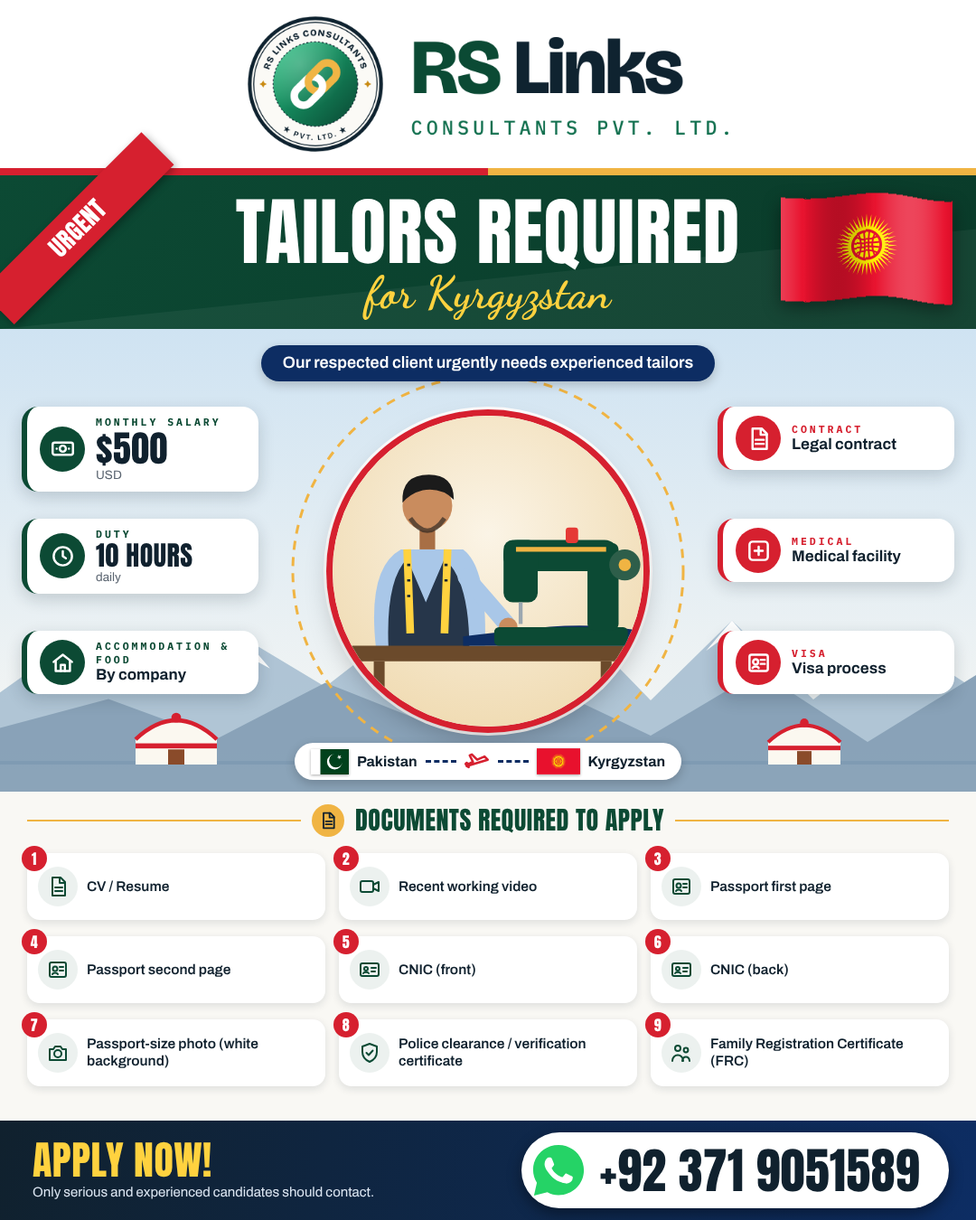
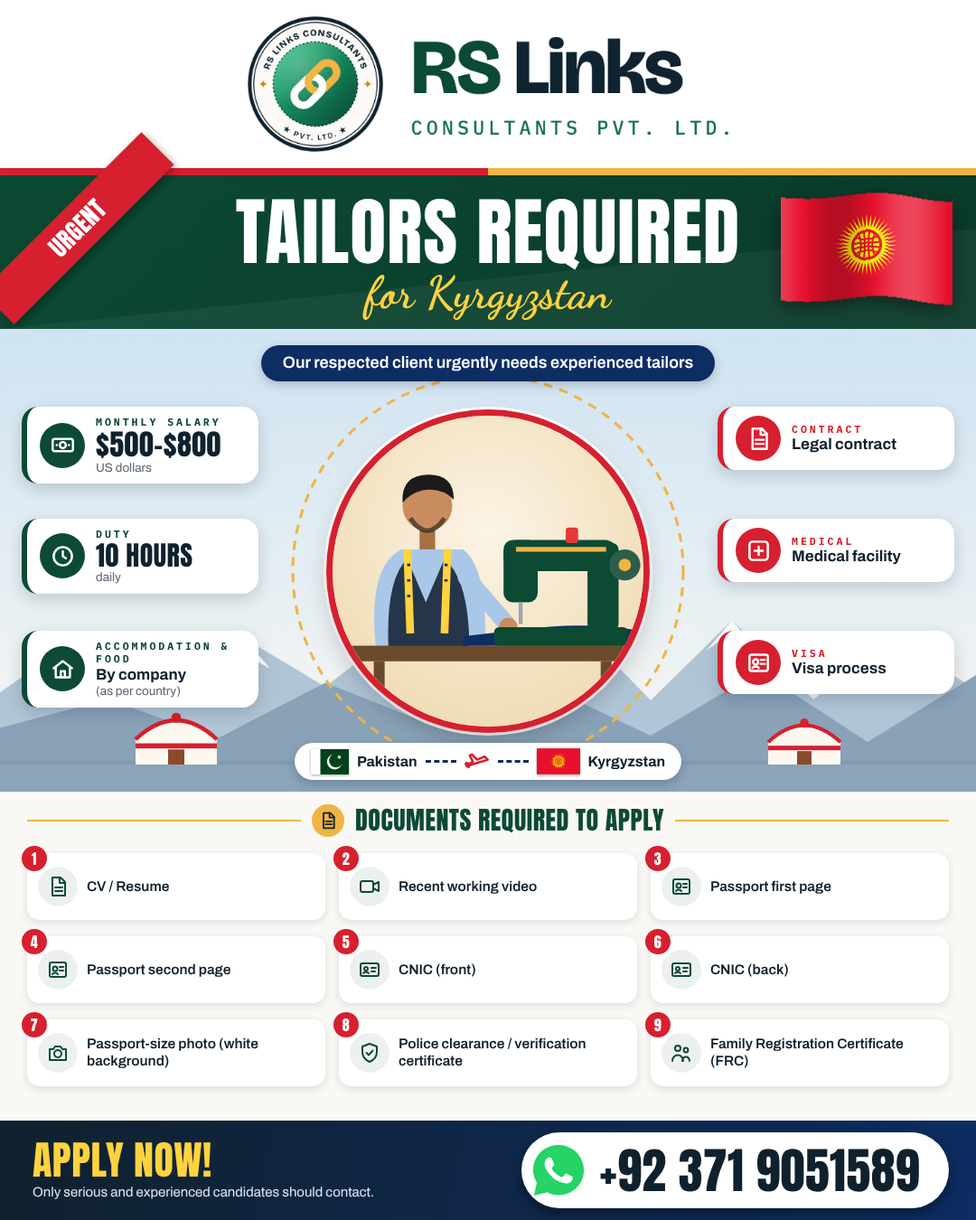
Add Uzbekistan factory workers ad; Kyrgyz tailors back to source salary
New scene-led style with an illustrated factory floor. Kyrgyzstan tailors
ad restored to the source ad: $500–$800 monthly, accommodation & food by
company (as per country).

Claude-Session: https://claude.ai/code/session_01YJ5ofgU8QCiWTsYR9pvXG4

Changed region(s): [[0.0306, 0.3422, 0.275, 0.4044], [0.0, 0.5289, 0.275, 0.5911]]

diff --git a/src/style_scene.py b/src/style_scene.py
@@ -1,0 +1,144 @@
+"""Style: Scene-led.
+
+A full-width illustrated workplace scene (big windows onto the destination's
+landmarks, workers doing the job) with the logo plate and headline set in
+the sky; below it a wave-edged info section: job tiles, a big salary card +
+2x2 detail tiles, a facilities row, a highlighted note bar, and a red
+WhatsApp CTA bar. Mirrors automatically for Urdu.
+
+Usage: python3 src/style_scene.py <data module in src/data/>
+"""
+import importlib
+import sys
+
+from common import C, WHATSAPP, flag, icon, logo_img, page, render, whatsapp_icon, overflow_report
+from illustrations import factory_scene
+from style_corporate_grid import T
+
+
+def css(ur):
+    base = 'Nastaliq' if ur else 'Archivo'
+    return f"""
+.canvas{{font-family:'{base}',sans-serif;background:{C['offwhite']};}}
+.ur-on .t{{font-family:'Nastaliq',serif;}}
+.num{{font-family:'Anton','Nastaliq',sans-serif;direction:ltr;unicode-bidi:isolate;display:inline-block;letter-spacing:.5px;}}
+.ic{{border-radius:50%;display:flex;align-items:center;justify-content:center;flex:none;}}
+.mir{{transform:scaleX(-1);}}
+.sec{{display:flex;align-items:center;gap:10px;}}
+.sec .bar{{width:6px;height:24px;border-radius:3px;}}
+"""
+
+
+def section_title(txt, color, f):
+    return (f"<div class='sec' style='margin-bottom:{6 if f.ur else 12}px'><div class='bar' style='background:{color}'></div>"
+            f"{f.label(txt, 15, 19, color, 'font-weight:700')}</div>")
+
+
+def build(d, lang):
+    ur = lang == "ur"
+    f = T(ur)
+    t = d[lang]
+    g = d["layout"]
+    sh = g["scene_h"]
+    # ---------------- scene + headline in the sky
+    scene = f"<svg class='abs' style='left:0;top:0' width='1080' height='{sh}'>{factory_scene(1080, sh, ur)}</svg>"
+    logo = (f"<div class='abs' style='top:18px;left:{(1080-560)//2}px;width:560px;height:132px;background:#fff;border-radius:22px;"
+            f"box-shadow:0 8px 22px rgba(16,33,46,.22);display:flex;align-items:center;justify-content:center'>"
+            f"{logo_img('logo-horizontal-light', 'width:510px;height:116px')}</div>")
+    flag_el = f"<div class='abs' style='top:22px;inset-inline-start:24px;filter:drop-shadow(0 6px 10px #0005)'>{flag('uzbekistan', 170, True, 'sf' + lang)}</div>"
+    posts = (f"<div class='abs' style='top:20px;inset-inline-end:26px;width:150px;height:150px;border-radius:50%;background:{C['red']};"
+             f"box-shadow:0 6px 16px {C['red']}66;border:5px solid #fff;display:flex;flex-direction:column;align-items:center;justify-content:center;color:#fff'>"
+             f"{f.label(t['posts_label'], 12, 16, '#FFE7E7', 'text-align:center')}"
+             f"<div class='num' style='font-size:58px;line-height:1'>{t['posts_n']}</div>"
+             f"{f.label(t['posts_word'], 13, 16, '#fff', 'text-align:center')}</div>")
+    if ur:
+        head = (f"<div style='display:inline-block;background:{C['red']};color:#fff;border-radius:10px;padding:0 16px 4px'>{f.txt(t['kicker'], 0, 26, '#fff', 'font-weight:700', 1.6)}</div>"
+                + f.txt(t['country'], 0, 56, C['navy'], 'font-weight:700;margin-top:52px', 1.4)
+                + f.txt(t['subhead'], 0, 26, C['green'], 'font-weight:700', 1.6))
+    else:
+        head = (f"<div style='display:inline-block;background:{C['red']};color:#fff;border-radius:10px;padding:6px 16px'>"
+                f"<span class='mono' style='font-size:18px'>{t['kicker']}</span></div>"
+                f"<div class='anton' style='font-size:104px;line-height:1;color:{C['navy']};margin-top:8px;letter-spacing:2px'>{t['country']}</div>"
+                f"<div class='anton' style='font-size:40px;line-height:1.05;color:{C['green']}'>{t['subhead']}</div>")
+    headline = f"<div class='abs' style='top:{g['head_top_ur' if ur else 'head_top']}px;left:0;right:0;text-align:center'>{head}</div>"
+    cities = (f"<div class='abs' style='top:{g['cities_top']}px;left:0;right:0;display:flex;justify-content:center'>"
+              f"<div style='display:inline-flex;align-items:center;gap:10px;background:#fff;border-radius:999px;padding:{'0 20px' if ur else '7px 20px'};box-shadow:0 4px 12px #0002'>"
+              f"{icon('pin', 22, C['red'], 2.6)}{f.txt(t['cities'], 18, 20, C['navy2'], 'font-weight:700', 1.6 if ur else 1)}"
+              f"<span style='color:#B6C2CE'>|</span><div style='line-height:0'>{flag('pakistan', 36, False)}</div>"
+              f"<span class='{'mir' if ur else ''}' style='display:inline-flex'>{icon('plane', 24, C['red'], 2.2)}</span>"
+              f"<div style='line-height:0'>{flag('uzbekistan', 46, False)}</div></div></div>")
+    # ---------------- info section with wave edge
+    iy = sh - 40
+    wave = (f"<svg class='abs' style='left:0;top:{iy - 30}px' width='1080' height='70'>"
+            f"<path d='M0 40 Q270 0 540 30 T1080 20 V70 H0Z' fill='{C['green']}'/>"
+            f"<path d='M0 52 Q270 14 540 42 T1080 32 V70 H0Z' fill='{C['offwhite']}'/></svg>")
+    info_bg = f"<div class='abs' style='top:{iy + 30}px;left:0;width:1080px;height:{g['cta_top'] - iy - 30}px;background:{C['offwhite']}'></div>"
+    # jobs row
+    jobs = "".join(
+        f"<div style='flex:1;background:#fff;border-radius:16px;box-shadow:0 3px 10px rgba(16,33,46,.1);display:flex;align-items:center;gap:10px;padding:{'4px 12px' if ur else '12px 12px'};min-width:0'>"
+        f"<div class='ic' style='width:46px;height:46px;background:{C['green']}'>{icon(ic, 25)}</div>"
+        f"{f.txt(txt, 17, 19, C['navy2'], 'font-weight:700;min-width:0', 1.6 if ur else 1.15)}</div>"
+        for ic, txt in t["jobs"])
+    jy = iy + 46
+    jobs_block = (f"<div class='abs' style='top:{jy}px;left:30px;right:30px'>{section_title(t['jobs_title'], C['green'], f)}"
+                  f"<div style='display:flex;gap:12px'>{jobs}</div>"
+                  f"{f.txt(t['jobs_note'], 15, 16, '#5A6470', 'margin-top:' + ('2px' if ur else '8px'), 1.6 if ur else 1.2)}</div>")
+    # salary + detail tiles
+    sy = g["details_top"]
+    sal = t["salary"]
+    tiles = "".join(
+        f"<div style='width:calc(50% - 6px);background:#fff;border-radius:14px;box-shadow:0 3px 10px rgba(16,33,46,.1);display:flex;align-items:center;gap:12px;padding:{'2px 14px' if ur else '10px 14px'}'>"
+        f"<div class='ic' style='width:42px;height:42px;background:{C['navy']}14'>{icon(ic, 22, C['navy'], 2.2)}</div>"
+        f"<div style='min-width:0'>{f.label(lab, 11.5, 15, '#5A6470')}{f.txt(val, 22, 20, C['navy2'], 'font-weight:800', 1.6 if ur else 1.15)}</div></div>"
+        for ic, lab, val in t["details"])
+    details = f"""<div class='abs' style='top:{sy}px;left:30px;right:30px'>{section_title(t['details_title'], C['navy'], f)}
+<div style='display:flex;gap:14px;height:{g['details_h']}px'>
+ <div style='width:300px;flex:none;border-radius:18px;background:linear-gradient(140deg,{C['emerald2']},{C['green']});color:#fff;display:flex;flex-direction:column;justify-content:center;align-items:center;
+  box-shadow:0 6px 16px {C['green']}55;padding:10px'>
+  <div style='display:flex;align-items:center;gap:8px'><div class='ic' style='width:34px;height:34px;background:#ffffff26'>{icon('money', 20)}</div>
+  {f.label(sal['label'], 13, 17, C['gold2'])}</div>
+  <div class='num' style='font-size:68px;line-height:1'>{sal['value']}</div>
+  {f.txt(sal['sub'], 16, 18, '#E6F4EC', '', 1.5 if ur else 1.2)}</div>
+ <div style='flex:1;display:flex;flex-wrap:wrap;gap:12px;align-content:space-between'>{tiles}</div></div></div>"""
+    # facilities row
+    fy = g["fac_top"]
+    facs = "".join(
+        f"<div style='flex:{fl};display:flex;align-items:center;gap:10px;min-width:0'>"
+        f"<div class='ic' style='width:44px;height:44px;background:{C['gold']}'>{icon(ic, 24, C['navy2'])}</div>"
+        f"{f.txt(txt, 16, 17, C['navy2'], 'font-weight:700;min-width:0', 1.6 if ur else 1.2)}</div>"
+        for ic, txt, fl in t["facilities"])
+    fac = (f"<div class='abs' style='top:{fy}px;left:30px;right:30px'>{section_title(t['fac_title'], '#B7791F', f)}"
+           f"<div style='display:flex;gap:16px;background:#fff;border-radius:16px;padding:{'4px 18px' if ur else '14px 18px'};box-shadow:0 3px 10px rgba(16,33,46,.1)'>{facs}</div></div>")
+    # note bar
+    ny = g["note_top"]
+    note = (f"<div class='abs' style='top:{ny}px;left:30px;right:30px;display:flex;gap:14px;align-items:stretch'>"
+            f"<div style='display:flex;align-items:center;gap:10px;background:{C['gold2']};border-radius:14px;padding:{'6px 18px 8px' if ur else '10px 18px'};box-shadow:0 3px 10px #0002'>"
+            f"<span class='{'mir' if ur else ''}' style='display:inline-flex'>{icon('plane', 26, C['navy2'], 2.4)}</span>"
+            f"{f.txt(t['note'], 19, 21, C['navy2'], 'font-weight:800;white-space:nowrap', 1.8 if ur else 1.1)}</div>"
+            f"<div style='flex:1;display:flex;align-items:center;justify-content:center;border:2px dashed {C['green']};border-radius:14px;padding:{'6px 10px 8px' if ur else '6px 10px'}'>"
+            f"{f.txt(t['tagline'], 22, 21, C['green'], 'font-weight:700;text-align:center', 1.8 if ur else 1.1, 't' if ur else 'script')}</div></div>")
+    # CTA
+    ct = g["cta_top"]
+    cta = f"""<div class='abs' style='top:{ct}px;left:0;width:1080px;height:{1350-ct}px;background:linear-gradient(100deg,#B71C1C,{C['red']})'></div>
+<div class='abs' style='top:{ct}px;height:{1350-ct}px;inset-inline-start:36px;width:440px;display:flex;flex-direction:column;justify-content:center'>
+ {f.head(t['apply'], 44, 34, '#fff')}
+ {f.txt(t['apply_sub'], 15, 16.5, '#FFE3E3', 'margin-top:' + ('8px' if ur else '4px'), 1.5 if ur else 1.3)}</div>
+<div class='abs' style='top:{ct+13}px;inset-inline-end:30px;height:{1350-ct-26}px;background:#fff;border-radius:999px;display:flex;align-items:center;gap:14px;
+ padding-inline:10px 32px;box-shadow:0 6px 16px #0005'>{whatsapp_icon(62)}
+ <div class='num' style='font-size:54px;color:{C['navy2']};line-height:1.15'>{WHATSAPP}</div></div>"""
+    body = scene + logo + flag_el + posts + headline + cities + info_bg + wave + jobs_block + details + fac + note + cta
+    return page(f"<div class='{'ur-on' if ur else ''}'>{body}</div>", css(ur), rtl=ur)
+
+
+def main(mod_name):
+    d = importlib.import_module(f"data.{mod_name}").DATA
+    for lang, suffix in (("en", "English"), ("ur", "Urdu")):
+        html = build(d, lang)
+        bad = overflow_report(html)
+        if bad:
+            print(f"[{lang}] overflowing boxes: {bad}")
+        print(render(html, f"{d['stem']}-{suffix}.png"))
+
+
+if __name__ == "__main__":
+    main(sys.argv[1])

diff --git a/src/illustrations.py b/src/illustrations.py
@@ -240,3 +240,64 @@ def girih_pattern(pid, color, opacity=0.14, size=80):
             f'<g fill="none" stroke="{color}" stroke-width="1.6" opacity="{opacity}">'
             f'<polygon points="{star}"/><rect x="{c - r2}" y="{c - r2}" width="{2*r2}" height="{2*r2}" transform="rotate(45 {c} {c})"/>'
             f'<path d="M0 0 L{size*0.16} {size*0.16} M{size} 0 L{size*0.84} {size*0.16} M0 {size} L{size*0.16} {size*0.84} M{size} {size} L{size*0.84} {size*0.84}"/></g></pattern>')
+
+
+def _worker(x, base, s=1.0, shirt=None, pose="stand", flip=False, uid="w"):
+    """Factory worker in cap and polo. pose: 'iron', 'pack', 'carry'."""
+    shirt = shirt or C["navy"]
+    tf = f"translate({x} {base}) scale({-s if flip else s} {s})"
+    arms = {
+        "iron": f'<path d="M16 -118 Q34 -96 52 -84" stroke="{shirt}" stroke-width="13" fill="none" stroke-linecap="round"/><circle cx="54" cy="-82" r="7" fill="#E8EDF2"/>'
+                f'<path d="M-16 -118 Q-26 -96 -14 -84" stroke="{shirt}" stroke-width="13" fill="none" stroke-linecap="round"/><circle cx="-12" cy="-82" r="7" fill="#E8EDF2"/>',
+        "pack": f'<path d="M16 -118 Q30 -100 30 -86" stroke="{shirt}" stroke-width="13" fill="none" stroke-linecap="round"/>'
+                f'<path d="M-16 -118 Q-30 -100 -30 -86" stroke="{shirt}" stroke-width="13" fill="none" stroke-linecap="round"/>'
+                f'<circle cx="30" cy="-84" r="7" fill="#E8EDF2"/><circle cx="-30" cy="-84" r="7" fill="#E8EDF2"/>',
+        "carry": f'<path d="M14 -122 Q34 -112 36 -96" stroke="{shirt}" stroke-width="13" fill="none" stroke-linecap="round"/>'
+                 f'<path d="M-14 -122 Q-6 -104 4 -96" stroke="{shirt}" stroke-width="13" fill="none" stroke-linecap="round"/>',
+    }[pose]
+    legs = (f'<path d="M-10 -70 L-12 0 M10 -70 L12 0" stroke="#22303F" stroke-width="15" stroke-linecap="round"/>'
+            f'<path d="M-20 0 L-4 0 M4 0 L22 0" stroke="#111" stroke-width="7" stroke-linecap="round"/>') if pose == "carry" else ""
+    box = (f'<rect x="-6" y="-124" width="62" height="50" fill="#C8935A"/><rect x="-6" y="-124" width="62" height="9" fill="#B07B45"/>'
+           f'<rect x="20" y="-124" width="10" height="50" fill="#E2B988"/>'
+           f'<circle cx="38" cy="-98" r="7" fill="#E8EDF2"/><circle cx="4" cy="-96" r="7" fill="#E8EDF2"/>') if pose == "carry" else ""
+    return f"""<g transform="{tf}">{legs}
+<path d="M-26 -66 Q-30 -122 -16 -134 L16 -134 Q30 -122 26 -66Z" fill="{shirt}"/>
+<path d="M-8 -134 L0 -120 L8 -134" fill="#fff" opacity=".9"/>
+<rect x="-6" y="-146" width="12" height="13" fill="{SKIN_D}"/>
+<circle cx="0" cy="-160" r="17" fill="{SKIN}"/>
+<path d="M-18 -162 Q-17 -182 1 -182 Q19 -182 18 -164Z" fill="{shirt}"/><path d="M14 -166 L30 -163 L16 -159Z" fill="{shirt}"/>
+{arms}{box}</g>"""
+
+
+def factory_scene(w, h, ur=False):
+    """Factory floor with big windows onto Tashkent (TV Tower) and Samarkand
+    (Registan), three workers: ironing, packing, carrying goods; hosiery
+    stock shelves and boxes."""
+    floor_y = h * 0.86
+    win = (f'<rect x="{w*0.05}" y="{h*0.08}" width="{w*0.9}" height="{h*0.5}" rx="8" fill="#BFD9EE"/>'
+           f'<g clip-path="url(#fswin)">'
+           f'<rect x="0" y="0" width="{w}" height="{h}" fill="url(#fssky)"/>'
+           f'<g transform="translate(0 {h*0.58 - 70})" opacity=".55">{skyline(int(w), 70, "#7FA3C4", 9)}</g>'
+           f'{registan(w*0.12, h*0.58, 260, "#8FB0CC")}{tashkent_tv_tower(w*0.78, h*0.58, h*0.48, "#6E95BA")}</g>'
+           + "".join(f'<rect x="{w*0.05 + i*w*0.18 - 3}" y="{h*0.08}" width="6" height="{h*0.5}" fill="#E9EEF3"/>' for i in range(1, 5)))
+    shelves = "".join(
+        f'<rect x="{sx}" y="{h*0.36}" width="120" height="{floor_y - h*0.36}" fill="#9AAFC6"/>'
+        + "".join(f'<rect x="{sx+6}" y="{h*0.38 + k*34}" width="108" height="24" fill="{["#2E5E9E","#7FA6D6","#1E9E4A","#F0B443"][k%4]}" opacity=".9"/>' for k in range(int((floor_y - h*0.4)//34)))
+        for sx in ([w*0.03] if not ur else [w*0.97 - 120]))
+    tables = (f'<rect x="{w*0.24}" y="{floor_y-118}" width="{w*0.62}" height="14" rx="4" fill="#5C6B7A"/>'
+              f'<path d="M{w*0.27} {floor_y-104} L{w*0.27} {floor_y} M{w*0.83} {floor_y-104} L{w*0.83} {floor_y}" stroke="#5C6B7A" stroke-width="8"/>'
+              f'<rect x="{w*0.3}" y="{floor_y-132}" width="110" height="14" fill="{C["emerald"]}"/>'
+              f'<path d="M{w*0.3+70} {floor_y-118} L{w*0.3+118} {floor_y-118} Q{w*0.3+120} {floor_y-140} {w*0.3+104} {floor_y-146} L{w*0.3+84} {floor_y-146} Q{w*0.3+70} {floor_y-138} {w*0.3+70} {floor_y-118}Z" fill="#F4F6F8" stroke="{INK}" stroke-width="3"/>'
+              f'<rect x="{w*0.6+18}" y="{floor_y-176}" width="96" height="58" fill="#C8935A"/><rect x="{w*0.6+18}" y="{floor_y-176}" width="96" height="10" fill="#B07B45"/>'
+              f'<rect x="{w*0.6+60}" y="{floor_y-176}" width="12" height="58" fill="#E2B988"/>'
+              f'<rect x="{w*0.6+130}" y="{floor_y-140}" width="44" height="9" fill="#2E5E9E"/><rect x="{w*0.6+130}" y="{floor_y-131}" width="44" height="9" fill="#7FA6D6"/>')
+    behind = (_worker(w*0.33, floor_y - 40, 1.0, C["navy"], "iron") +
+              _worker(w*0.57, floor_y - 40, 1.0, C["green"], "pack"))
+    workers = _worker(w*0.93 if not ur else w*0.07, floor_y + 6, 0.95, "#1F4E8C", "carry", flip=ur)
+    stack = "".join(f'<rect x="{(w*0.12 if not ur else w*0.84)}" y="{floor_y - 44*(k+1)}" width="70" height="42" fill="#C8935A" stroke="#B07B45" stroke-width="2"/>' for k in range(3))
+    return f"""<defs><clipPath id="fswin"><rect x="{w*0.05}" y="{h*0.08}" width="{w*0.9}" height="{h*0.5}" rx="8"/></clipPath>
+<linearGradient id="fssky" x1="0" y1="0" x2="0" y2="1"><stop offset="0" stop-color="#9CC7EA"/><stop offset="1" stop-color="#E3F0FA"/></linearGradient>
+<linearGradient id="fswall" x1="0" y1="0" x2="0" y2="1"><stop offset="0" stop-color="#E7ECF2"/><stop offset="1" stop-color="#D3DCE6"/></linearGradient></defs>
+<rect width="{w}" height="{h}" fill="url(#fswall)"/>{win}
+<rect y="{floor_y}" width="{w}" height="{h-floor_y}" fill="#B9C4CF"/>
+<path d="M0 {floor_y} H{w}" stroke="#9AA8B6" stroke-width="3"/>{shelves}{stack}{behind}{tables}{workers}"""

diff --git a/src/data/uzbekistan_factory.py b/src/data/uzbekistan_factory.py
@@ -1,0 +1,58 @@
+"""Demand 2026-10-06: Uzbekistan factory workers (Tashkent & Samarkand).
+Source: demands/2026-10-06-uzbekistan-combined/ref-factory.jpg (re-sent by user as "Uzbekistan").
+Facts: section B of facts.md."""
+from common import C
+
+N = lambda v: f"<span class='num' style='font-family:Archivo;font-weight:800;letter-spacing:0'>{v}</span>"
+
+DATA = {
+    "stem": "RS-Links-Uzbekistan-Factory-Workers",
+    "layout": {"scene_h": 690, "head_top": 160, "head_top_ur": 140, "cities_top": 598,
+               "details_top": 836, "details_h": 146, "fac_top": 1042, "note_top": 1160, "cta_top": 1240},
+    "en": {
+        "kicker": "URGENT REQUIREMENT FOR",
+        "country": "UZBEKISTAN",
+        "subhead": "FACTORY WORKERS",
+        "cities": "Tashkent &amp; Samarkand",
+        "posts_label": "TOTAL", "posts_n": "50", "posts_word": "POSTS",
+        "jobs_title": "JOBS",
+        "jobs": [("sock", "Hosiery Workers"), ("box", "Packing"), ("iron", "Ironing"), ("dolly", "Shifting Goods")],
+        "jobs_note": "Work includes packing, ironing, shifting goods, etc.",
+        "details_title": "SALARY &amp; DETAILS",
+        "salary": {"label": "SALARY", "value": "$400", "sub": "US dollars"},
+        "details": [("clock", "DUTY", "10 Hours + Overtime"),
+                    ("user", "AGE LIMIT", "21 – 35 Years"),
+                    ("calendar", "PROCESSING TIME", "30 – 35 Days"),
+                    ("visa", "VISA CATEGORY", "B-2")],
+        "fac_title": "FACILITIES",
+        "facilities": [("home", "Accommodation", 1), ("medical", "Medical", 0.85),
+                       ("bus", "Transport by company", 1.1), ("gift", "Other benefits as per local labour law", 2.1)],
+        "note": "Note: Ticket from Punjab",
+        "tagline": "Uzbekistan — New Destination, New Opportunities",
+        "apply": "APPLY NOW!",
+        "apply_sub": "A strong step towards a better future.",
+    },
+    "ur": {
+        "kicker": "فوری ضرورت برائے",
+        "country": "ازبکستان",
+        "subhead": "فیکٹری ورکرز",
+        "cities": "تاشقند اور ثمرقند",
+        "posts_label": "تعداد", "posts_n": "50", "posts_word": "آسامیاں",
+        "jobs_title": "ملازمتیں",
+        "jobs": [("sock", "ہوزری ورکرز"), ("box", "پیکنگ"), ("iron", "استری کرنا"), ("dolly", "سامان شفٹ کرنا")],
+        "jobs_note": "جس میں پیکنگ، استری کرنا، سامان شفٹ کرنا وغیرہ شامل ہوگا۔",
+        "details_title": "تنخواہ و دیگر تفصیلات",
+        "salary": {"label": "تنخواہ", "value": "$400", "sub": "ڈالر"},
+        "details": [("clock", "ڈیوٹی", f"{N(10)} گھنٹے + اوور ٹائم"),
+                    ("user", "عمر کی حد", f"{N('21 – 35')} سال"),
+                    ("calendar", "پروسیسنگ ٹائم", f"{N('30 – 35')} دن"),
+                    ("visa", "ویزا کیٹیگری", N("B-2"))],
+        "fac_title": "سہولیات",
+        "facilities": [("home", "رہائش", 0.8), ("medical", "میڈیکل", 0.8),
+                       ("bus", "ٹرانسپورٹ بذمہ کمپنی", 1.2), ("gift", "دیگر مراعات مقامی لیبر لاء کے مطابق", 1.7)],
+        "note": "نوٹ: ٹکٹ پنجاب سے ہوگا",
+        "tagline": "ازبکستان — نئی منزل، نئے مواقع",
+        "apply": "ابھی اپلائی کریں!",
+        "apply_sub": "بہتر مستقبل کی جانب ایک مضبوط قدم",
+    },
+}

diff --git a/src/data/kyrgyzstan_tailors.py b/src/data/kyrgyzstan_tailors.py
@@ -1,6 +1,6 @@
 """Demand 2026-10-06 (split): experienced tailors for Kyrgyzstan.
 Facts: demands/2026-10-06-uzbekistan-combined/facts.md (section C); the user
-confirmed the destination country is Kyrgyzstan, and corrected the tailor salary to 500 USD."""
+confirmed the destination country is Kyrgyzstan, and re-sent the source ad: salary $500–$800 monthly."""
 from common import C
 
 N = lambda v: f"<span class='num' style='font-family:Archivo;font-weight:700;letter-spacing:0'>{v}</span>"
@@ -20,9 +20,9 @@ DATA = {
         "opener": "Our respected client urgently needs experienced tailors",
         "from": "Pakistan", "to": "Kyrgyzstan",
         "badges_start": [
-            {"icon": "money", "label": "MONTHLY SALARY", "value": "$500", "size": 40, "sub": "USD"},
+            {"icon": "money", "label": "MONTHLY SALARY", "value": "$500–$800", "size": 32, "sub": "US dollars"},
             {"icon": "clock", "label": "DUTY", "value": "10 HOURS", "sub": "daily"},
-            {"icon": "home", "label": "ACCOMMODATION &amp; FOOD", "value": "By company", "num": False},
+            {"icon": "home", "label": "ACCOMMODATION &amp; FOOD", "value": "By company", "num": False, "sub": "(as per country)"},
         ],
         "badges_end": [
             {"icon": "doc", "label": "CONTRACT", "value": "Legal contract", "num": False},
@@ -46,9 +46,9 @@ DATA = {
         "opener": "ہمارے معزز کلائنٹ کو تجربہ کار ٹیلرز کی فوری ضرورت ہے",
         "from": "پاکستان", "to": "کرغزستان",
         "badges_start": [
-            {"icon": "money", "label": "ماہانہ تنخواہ", "value": "500 USD", "size": 36},
+            {"icon": "money", "label": "ماہانہ تنخواہ", "value": "$500 – $800", "size": 30, "sub": "امریکی ڈالر"},
             {"icon": "clock", "label": "ڈیوٹی کا وقت", "value": f"{N(10)} گھنٹے روزانہ", "num": False},
-            {"icon": "home", "label": "رہائش اور کھانا", "value": "کمپنی کی جانب سے", "num": False},
+            {"icon": "home", "label": "رہائش اور کھانا", "value": "کمپنی کی جانب سے", "num": False, "sub": "(ممالک کے مطابق)"},
         ],
         "badges_end": [
             {"icon": "doc", "label": "معاہدہ", "value": "قانونی معاہدہ", "num": False},

diff --git a/src/common.py b/src/common.py
@@ -207,6 +207,11 @@ ICONS = {
     "camera": '<path d="M3 8h4l2-3h6l2 3h4v12H3z"/><circle cx="12" cy="13" r="4"/>',
     "family": '<circle cx="8" cy="7" r="3"/><circle cx="17" cy="9" r="2.4"/><path d="M2 21c0-4 3-6.5 6-6.5s6 2.5 6 6.5M13 21c.3-3 2-4.6 4-4.6s3.8 1.6 4 4.6"/>',
     "scissors": '<circle cx="6" cy="6" r="3"/><circle cx="6" cy="18" r="3"/><path d="M8.1 8.1L20 20M8.1 15.9L20 4"/>',
+    "box": '<path d="M3 7l9-4 9 4v10l-9 4-9-4z"/><path d="M3 7l9 4 9-4M12 11v10"/>',
+    "iron": '<path d="M3 17h17v-3a6 6 0 0 0-6-6H8"/><path d="M3 17l2-6h9"/><path d="M8 8V6h7"/>',
+    "sock": '<path d="M8 2h7v10l-6 7a3 3 0 0 1-5-3l4-5z"/><path d="M8 6h7"/>',
+    "dolly": '<path d="M4 3h3l3 13h10"/><rect x="10" y="6" width="9" height="7" rx="1"/><circle cx="10" cy="19" r="2"/><circle cx="19" cy="19" r="2"/>',
+    "gift": '<rect x="3" y="9" width="18" height="12" rx="1"/><path d="M3 13h18M12 9v12"/><path d="M12 9c-2-4-6-4-6-1s6 1 6 1zm0 0c2-4 6-4 6-1s-6 1-6 1z"/>',
     "megaphone": '<path d="M3 10v4h4l8 5V5L7 10z"/><path d="M18 9a4 4 0 0 1 0 6"/>',
 }
 

diff --git a/output/design-log.md b/output/design-log.md
@@ -8,3 +8,4 @@ Check the last few entries before starting a new post so each post looks differe
 | 2026-10-06 | RS-Links-Uzbekistan-Riders-Drivers-Factory-Tailors | Corporate navy/gold grid (`style_corporate_grid.py`): white big-logo header, navy skyline hero with PK→UZ route + "120 posts" stat, one wide group card (riders + drivers + requirements + shared-facts strip), two tall cards (hosiery workers; tailors with 9-doc grid), green WhatsApp CTA bar | Off-white base, navy #0D2D63 hero/strips, gold #F0B443 accents, emerald/green/amber per-card accents, red posts ribbons | Waving Uzbekistan flag, Tashkent TV Tower + Registan silhouettes, circular semi-flat trade illustrations (rider, driver, factory, tailor) |
 | 2026-10-06 | RS-Links-Uzbekistan-Bike-Riders-Car-Drivers | Silk Road / cultural (`style_silk_road.py`): girih-tile deep-green background, white logo plate with gold border, pointed-arch navy hero with Registan + TV Tower, gold rosette seals, two arch-topped job cards, full-width two-column requirements panel, gold CTA bar | Deep green #0C4A34 base, navy arch, gold #F0B443/#FFD23F, emerald / navy / brown card accents | Waving UZ flag, PK→UZ route, arch-framed trade illustrations |
 | 2026-10-06 | RS-Links-Kyrgyzstan-Tailors | Circular centrepiece (`style_orbit.py`): white header with centred logo, deep-green headline band with corner "URGENT" sash + waving KG flag, sky/mountain scene with big circular tailor image and 6 orbiting benefit badges, route pill, 3×3 numbered documents grid, navy CTA bar | Off-white, deep green, Kyrgyz red #D6202F accent, gold, navy CTA | Kyrgyz flag (2023 straight-ray spec), Tian Shan ridge, yurts |
+| 2026-10-06 | RS-Links-Uzbekistan-Factory-Workers | Scene-led (`style_scene.py`): full-width illustrated factory floor (big windows onto Registan + Tashkent TV Tower, ironing / packing / carrying workers, hosiery shelves), logo plate + navy headline in the sky, red "50 posts" disc, wave-edged info section (job tiles, big salary card + 2×2 detail tiles, facilities strip, yellow note bar + dashed tagline box), red CTA bar | Light sky/grey interior, navy headline, deep green + emerald, gold facility icons, red CTA | Waving UZ flag, PK→UZ route pill, city pill |
